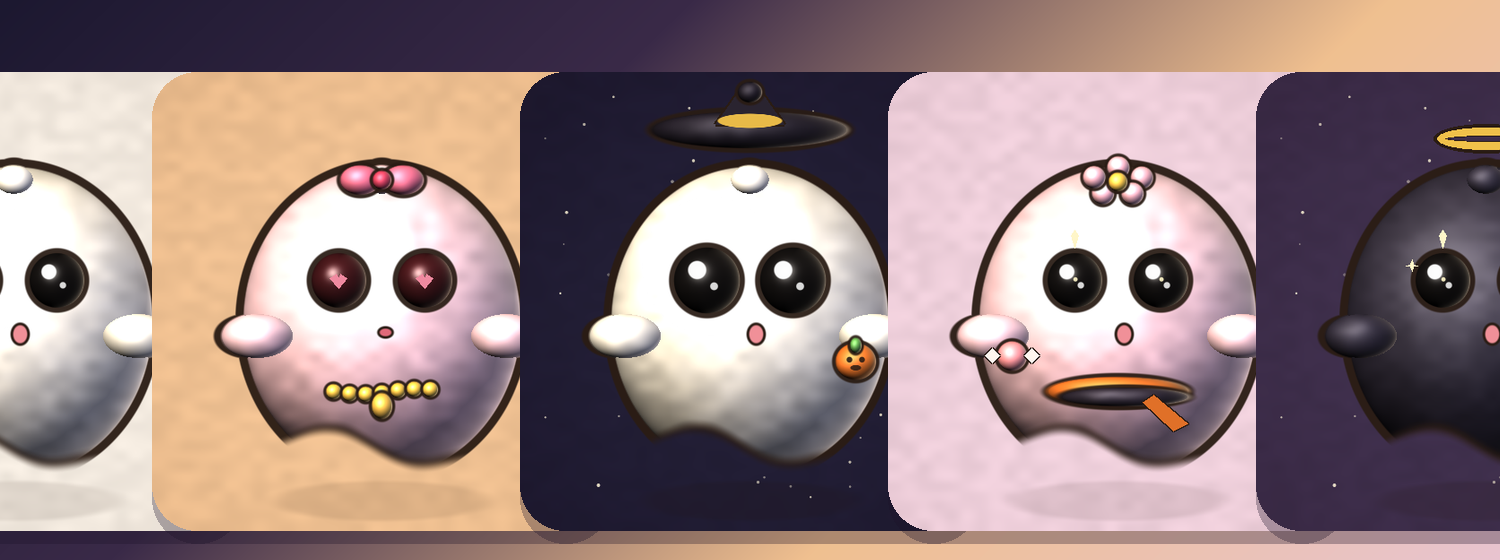
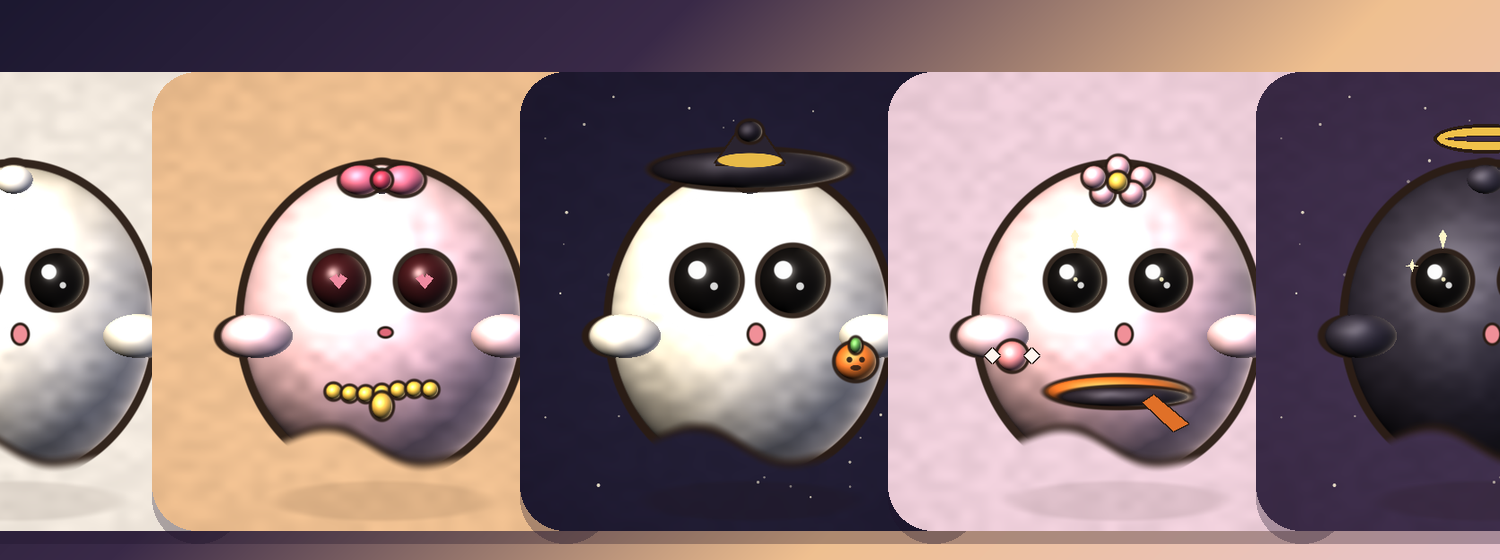
Seat witch, wizard, and crown hats on the head instead of above it.
The last lift left a gap over the nub; these three now rest on the crown while pumpkin, bow, and flower stay put.

Changed region(s): [[0.4293, 0.1518, 0.5827, 0.3643], [0.552, 0.2125, 0.5827, 0.2429]]

diff --git a/src/data/shookum-gallery.ts b/src/data/shookum-gallery.ts
@@ -9,7 +9,7 @@ export const shookumSamples: ShookumSample[] = [
   {
     id: 1,
     name: "Shook'um #1",
-    image: "/shookums-preview/1.gif?v=4",
+    image: "/shookums-preview/1.gif?v=5",
     attributes: [
       { trait_type: "Night", value: "Parchment" },
       { trait_type: "Sheet", value: "Classic" },
@@ -22,7 +22,7 @@ export const shookumSamples: ShookumSample[] = [
   {
     id: 2,
     name: "Shook'um #2",
-    image: "/shookums-preview/2.gif?v=4",
+    image: "/shookums-preview/2.gif?v=5",
     attributes: [
       { trait_type: "Night", value: "Pumpkin" },
       { trait_type: "Sheet", value: "Blush" },
@@ -35,7 +35,7 @@ export const shookumSamples: ShookumSample[] = [
   {
     id: 3,
     name: "Shook'um #3",
-    image: "/shookums-preview/3.gif?v=4",
+    image: "/shookums-preview/3.gif?v=5",
     attributes: [
       { trait_type: "Night", value: "Midnight" },
       { trait_type: "Sheet", value: "Classic" },
@@ -48,7 +48,7 @@ export const shookumSamples: ShookumSample[] = [
   {
     id: 4,
     name: "Shook'um #4",
-    image: "/shookums-preview/4.gif?v=4",
+    image: "/shookums-preview/4.gif?v=5",
     attributes: [
       { trait_type: "Night", value: "Candy" },
       { trait_type: "Sheet", value: "Blush" },
@@ -61,7 +61,7 @@ export const shookumSamples: ShookumSample[] = [
   {
     id: 5,
     name: "Shook'um #5",
-    image: "/shookums-preview/5.gif?v=4",
+    image: "/shookums-preview/5.gif?v=5",
     attributes: [
       { trait_type: "Night", value: "Dusk" },
       { trait_type: "Sheet", value: "Void" },
@@ -74,7 +74,7 @@ export const shookumSamples: ShookumSample[] = [
   {
     id: 6,
     name: "Shook'um #6",
-    image: "/shookums-preview/6.gif?v=4",
+    image: "/shookums-preview/6.gif?v=5",
     attributes: [
       { trait_type: "Night", value: "Fog" },
       { trait_type: "Sheet", value: "Classic" },
@@ -87,7 +87,7 @@ export const shookumSamples: ShookumSample[] = [
   {
     id: 7,
     name: "Shook'um #7",
-    image: "/shookums-preview/7.gif?v=4",
+    image: "/shookums-preview/7.gif?v=5",
     attributes: [
       { trait_type: "Night", value: "Blood Moon" },
       { trait_type: "Sheet", value: "Void" },
@@ -100,7 +100,7 @@ export const shookumSamples: ShookumSample[] = [
   {
     id: 8,
     name: "Shook'um #8",
-    image: "/shookums-preview/8.gif?v=4",
+    image: "/shookums-preview/8.gif?v=5",
     attributes: [
       { trait_type: "Night", value: "Graveyard" },
       { trait_type: "Sheet", value: "Classic" },

diff --git a/src/app/shookums/gallery/page.tsx b/src/app/shookums/gallery/page.tsx
@@ -55,7 +55,7 @@ export default function ShookumsGalleryPage() {
         {extraPreviews.map((id) => (
           <article key={id} className="overflow-hidden rounded-2xl border bg-card">
             <ApngImage
-              src={`/shookums-preview/${id}.gif?v=4`}
+              src={`/shookums-preview/${id}.gif?v=5`}
               alt={`Shook'um #${id}`}
               width={512}
               height={512}

diff --git a/src/data/shookum-traits.ts b/src/data/shookum-traits.ts
@@ -14,7 +14,7 @@ export type ShookumTraitCategory = {
 };
 
 /** Bump when APNG layers change so the studio does not keep a stale loop. */
-export const SHOOKUM_ART_VERSION = "shookums-v4";
+export const SHOOKUM_ART_VERSION = "shookums-v5";
 
 export const SHOOKUM_FRAMES = 12;
 export const SHOOKUM_DURATION_MS = 90;

diff --git a/scripts/build_shookums.py b/scripts/build_shookums.py
@@ -600,12 +600,12 @@ def paint_mug(kind: str, frame: int) -> np.ndarray:
 # forehead. Pumpkin, bow, and flower stay on the original seat.
 # Tall cones are drawn shorter so the tip stays on the 512 canvas.
 HAT_LIFT = {
-    "witch": 84.0,
-    "wizard": 74.0,
+    "witch": 40.0,
+    "wizard": 30.0,
     "pumpkin": 0.0,
     "halo": 32.0,
     "party": 38.0,
-    "crown": 52.0,
+    "crown": 14.0,
     "bow": 0.0,
     "flower": 0.0,
     "cat": 42.0,
